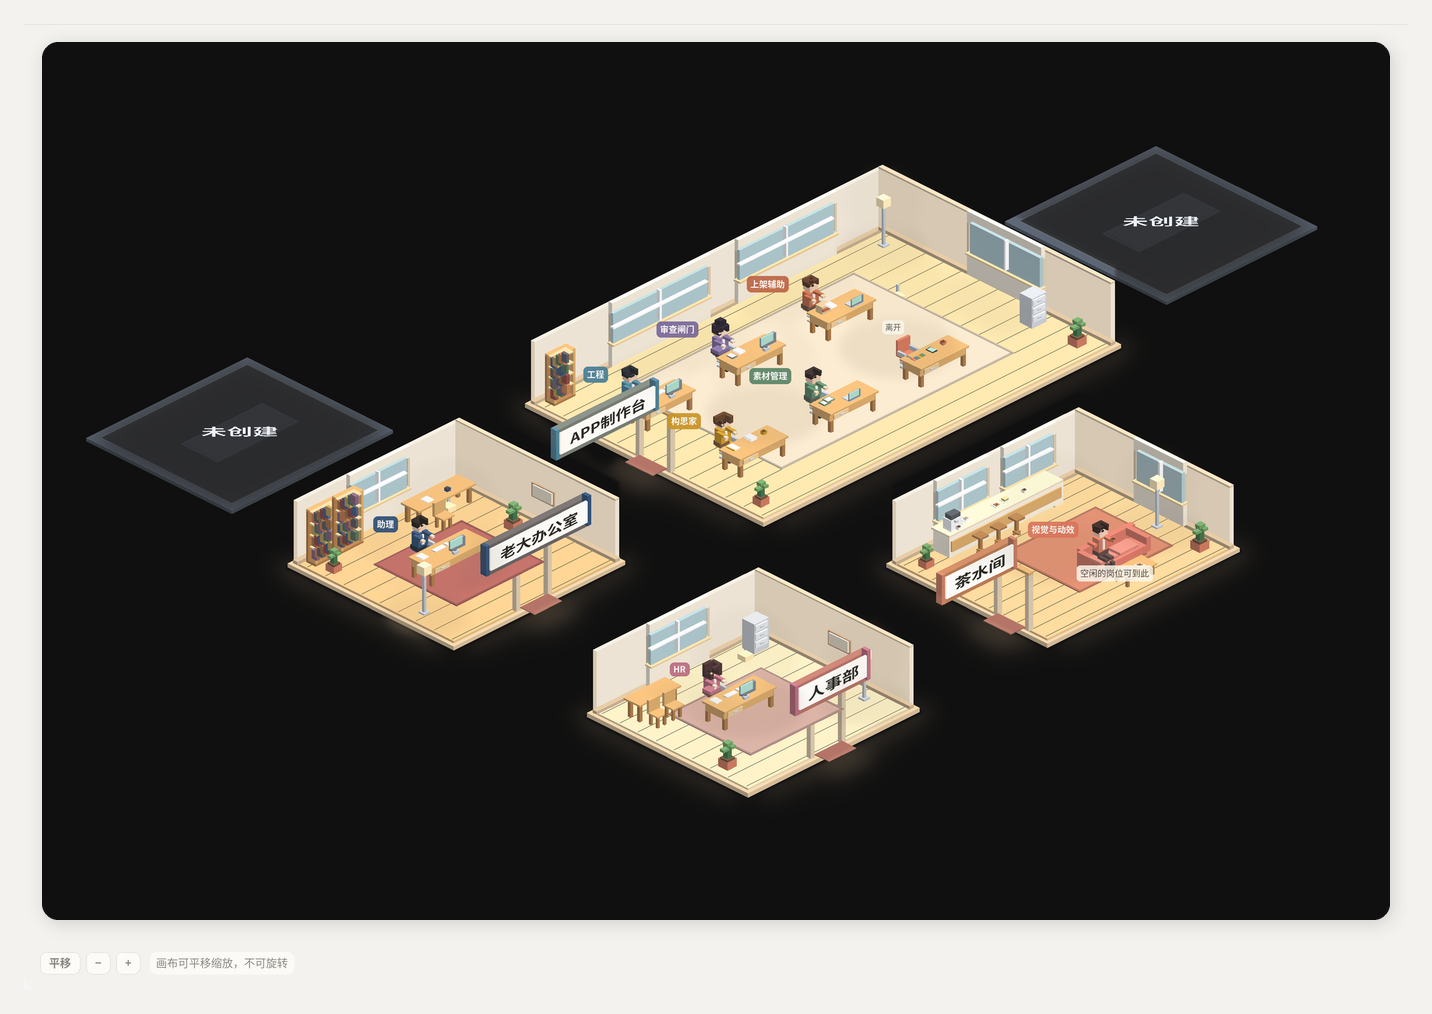
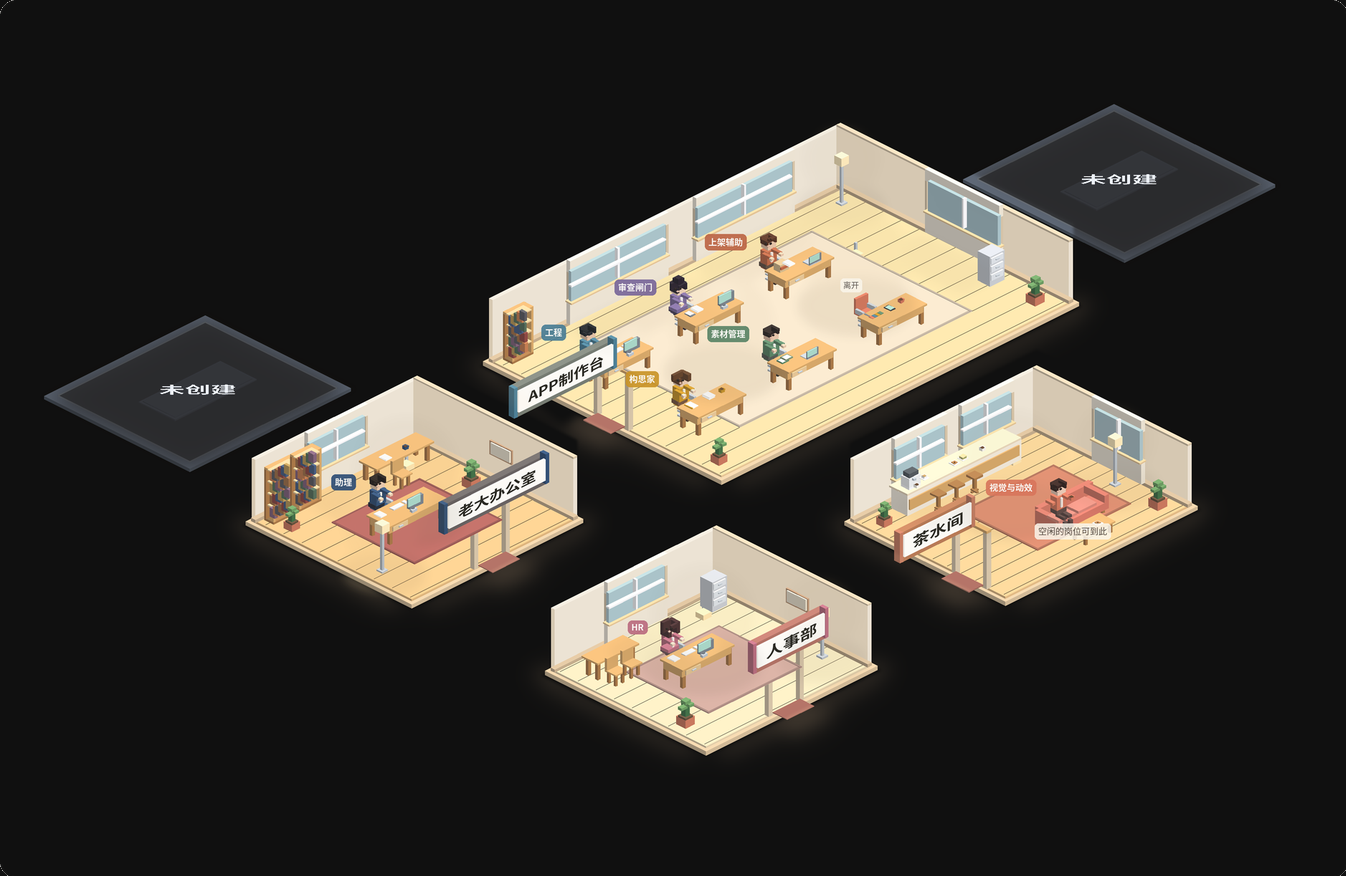
fix: crop scene viewport art and align assistant hotspot
Crop 01 art to dark bbox 1346×876; fill corner bleed to #101010.
Move assistant hit to boss office (~298,432). Correct 工程 presence.
Add e2e guard for hotspot scene coordinates.

diff --git a/src/scene-canvas.ts b/src/scene-canvas.ts
@@ -1,8 +1,7 @@
 import { App, Group, Image, Rect } from 'leafer-ui'
 import { RenderEvent } from '@leafer/core'
+import { ASSISTANT_HOTSPOT, SCENE_H, SCENE_W } from './scene-constants'
 
-const SCENE_W = 1432
-const SCENE_H = 1014
 const SCENE_URL = `${import.meta.env.BASE_URL}assets/scene/ambient-07.png`
 
 export interface SceneCanvas {
@@ -11,6 +10,7 @@ export interface SceneCanvas {
   resetView: () => void
   getSceneRotation: () => number
   getAssistantScreenCenter: () => { x: number; y: number } | null
+  getHotspotSceneCenter: () => { x: number; y: number }
 }
 
 export function createSceneCanvas(
@@ -47,10 +47,10 @@ export function createSceneCanvas(
   })
 
   const assistantHit = new Rect({
-    x: 52,
-    y: 640,
-    width: 200,
-    height: 160,
+    x: ASSISTANT_HOTSPOT.x,
+    y: ASSISTANT_HOTSPOT.y,
+    width: ASSISTANT_HOTSPOT.width,
+    height: ASSISTANT_HOTSPOT.height,
     fill: 'rgba(0,0,0,0.01)',
     cursor: 'pointer',
     hittable: true,
@@ -120,11 +120,17 @@ export function createSceneCanvas(
     return { x, y }
   }
 
+  const getHotspotSceneCenter = () => ({
+    x: ASSISTANT_HOTSPOT.x + ASSISTANT_HOTSPOT.width / 2,
+    y: ASSISTANT_HOTSPOT.y + ASSISTANT_HOTSPOT.height / 2,
+  })
+
   return {
     app,
     zoomBy,
     resetView: fit,
     getSceneRotation: () => content.rotation ?? 0,
     getAssistantScreenCenter,
+    getHotspotSceneCenter,
   }
 }

diff --git a/src/mock-data.ts b/src/mock-data.ts
@@ -26,20 +26,14 @@ export const presence: BotPresence[] = [
   { role: '助理', location: '老大办公室', posture: '在岗工作' },
   { role: '构思家', location: 'APP制作台', posture: '在岗工作' },
   { role: '素材管理', location: 'APP制作台', posture: '在岗工作' },
-  { role: '工程', location: 'APP制作台', posture: '离开' },
+  { role: '工程', location: 'APP制作台', posture: '在岗工作' },
   { role: '审查闸门', location: 'APP制作台', posture: '在岗工作' },
   { role: '上架辅助', location: 'APP制作台', posture: '在岗工作' },
   { role: '视觉与动效', location: '茶水间', posture: '茶水间休息' },
   { role: 'HR', location: '人事部', posture: '在岗工作' },
 ]
 
-/** Hit area on `ambient-07.png` (1432×1014) — boss office assistant. */
-export const assistantHotspot = {
-  x: 52,
-  y: 640,
-  width: 200,
-  height: 160,
-}
+export { ASSISTANT_HOTSPOT as assistantHotspot } from './scene-constants'
 
 export const chatMessages = [
   {

diff --git a/e2e/dashboard.spec.ts b/e2e/dashboard.spec.ts
@@ -54,6 +54,20 @@ test.describe('可视化 Bot 协作管理后台 — 第一期烟雾', () => {
     expect(rotation).toBe(0)
   })
 
+  test('助理热区在裁切场景内覆盖助理，不在左下空白黑地', async ({ page }) => {
+    await page.goto('/')
+    await page.getByTestId('assistant-scene-hit').waitFor({ state: 'visible', timeout: 10_000 })
+    const center = await page.evaluate(() =>
+      (window as unknown as { __assistantHotspotInScene?: () => { x: number; y: number } }).__assistantHotspotInScene?.(),
+    )
+    expect(center).toBeDefined()
+    expect(center!.x).toBeGreaterThan(280)
+    expect(center!.x).toBeLessThan(520)
+    expect(center!.y).toBeGreaterThan(400)
+    expect(center!.y).toBeLessThan(620)
+    expect(center!.y).toBeLessThan(876 * 0.72)
+  })
+
   test('点击助理热区聚焦右侧对话，不另开窗口', async ({ page }) => {
     await page.goto('/')
     await page.getByTestId('scene-viewport').locator('canvas').first().waitFor({ timeout: 15_000 })

diff --git a/src/main.ts b/src/main.ts
@@ -110,6 +110,9 @@ shell.querySelector('#btn-zoom-reset')?.addEventListener('click', () => scene.re
 ;(window as unknown as {
   __sceneRotation?: () => number
   __getAssistantScreenCenter?: () => { x: number; y: number } | null
+  __assistantHotspotInScene?: () => { x: number; y: number }
 }).__sceneRotation = () => scene.getSceneRotation()
 ;(window as unknown as { __getAssistantScreenCenter?: () => { x: number; y: number } | null }).__getAssistantScreenCenter =
   () => scene.getAssistantScreenCenter()
+;(window as unknown as { __assistantHotspotInScene?: () => { x: number; y: number } }).__assistantHotspotInScene =
+  () => scene.getHotspotSceneCenter()

diff --git a/src/scene-constants.ts b/src/scene-constants.ts
@@ -1,0 +1,14 @@
+/** Cropped from 01-左侧场景氛围.png: dark viewport bbox (42,42)–(1388,918). */
+
+export const SCENE_CROP = { left: 42, top: 42, width: 1346, height: 876 }
+
+export const SCENE_W = SCENE_CROP.width
+export const SCENE_H = SCENE_CROP.height
+
+/** Boss-office 助理 — uncropped ~330–530 × 470–620 → scene-local after crop. */
+export const ASSISTANT_HOTSPOT = {
+  x: 298,
+  y: 432,
+  width: 188,
+  height: 172,
+}

diff --git a/docs/ENGINEERING.md b/docs/ENGINEERING.md
@@ -3,7 +3,7 @@
 ## 实现概要
 
 - **外壳：** CSS 实现纸白色板（`#FEFEFE` / `#F4F2EE`），窗口圆角 18px，右侧 480px 圆角对话卡片，内缩 18px。
-- **场景：** `public/assets/scene/ambient-07.png`（界面稿 `01-左侧场景氛围.png`）置于 Leafer `App` 中，视口底 `#101010`、圆角 16px；工具条在黑色容器下方的纸白壳上。
+- **场景：** `ambient-07.png` 为 `01-左侧场景氛围.png` 裁切视口内景（`42,42`–`1388,918`，1346×876，角部填 `#101010`），不含稿内纸白条/烘焙工具条；外壳与平移缩放条仅 CSS/HTML。置于 Leafer，视口 `#101010`、16px 圆角。
 - **交互：** 平移（拖拽画布）、缩放（滚轮与 ± 按钮）；`wheel.rotateSpeed = 0` 禁止旋转。点击助理热区聚焦右侧输入框，无弹窗。
 - **数据：** `src/mock-data.ts` 本地模拟，无真实 Bot/聊天 API。
 
@@ -14,8 +14,8 @@
 | 纸白外壳与字体 | Noto Serif SC 标题 + Noto Sans SC 正文（OFL，打包入 dist） |
 | 近黑圆角视口 | `#101010` + 16px 圆角 + 内缩边距 |
 | 环境光 / 名牌 | 使用改稿 07 预渲场景图，不在代码中加灯牌发光 |
-| 默认状态 | 四间开灯 + 两块「未创建」空地；视觉与动效在茶水间，工程工位离开 |
-| 点击助理 | 透明 `Rect` 热区 + 对话栏 `chat-card--focused` |
+| 默认状态 | 四间开灯 + 两块「未创建」空地；视觉与动效在茶水间休息，其 APP 工位桌北空椅「离开」；工程在 APP制作台在岗 |
+| 点击助理 | 热区 scene-local `298,432` 188×172（老大办公室助理），DOM 按钮随画布同步 |
 
 ## 已知设计缺口（本轮不修）
 

diff --git a/docs/可视化Bot协作管理后台-工程报告.md b/docs/可视化Bot协作管理后台-工程报告.md
@@ -16,7 +16,7 @@
 ## 本轮实现
 
 1. Vite + TypeScript 单页应用，纸白外壳与右侧 480px 对话圆角卡片（CSS，对齐 DESIGN.md §8 / 改稿 07）。
-2. 左侧近黑圆角视口（`#101010`，16px），内嵌 LeaferJS：`01-左侧场景氛围.png` 作为场景图（`public/assets/scene/ambient-07.png`），支持拖拽平移、滚轮/按钮缩放；`rotateSpeed: 0` 禁止旋转。
+2. 左侧近黑圆角视口（`#101010`，16px），内嵌 LeaferJS：场景图为 `01` **裁切视口内景**（`ambient-07.png`，1346×876，不含稿内工具条/纸白边），支持拖拽平移、滚轮/按钮缩放；`rotateSpeed: 0` 禁止旋转；助理热区对齐老大办公室（非左下黑地）。
 3. 助理点击热区（透明 Rect）聚焦右侧输入与卡片强调，无新窗口。
 4. `src/mock-data.ts` 本地模拟状态与对话（设计稿 03 同等文案）。
 5. 设计文档与界面参考图、`docs/licenses/` 许可摘录、`LICENSE`（MIT）、`THIRD_PARTY_NOTICES`。

diff --git a/README.md b/README.md
@@ -33,7 +33,7 @@ npm run test:e2e
 
 - `docs/DESIGN.md` — 设计规格
 - `docs/动效说明.md`、`docs/设计报告.md`
-- `public/assets/scene/ambient-07.png` — 左侧场景（改稿 07）
+- `public/assets/scene/ambient-07.png` — 左侧场景（由 `01` 裁切视口 1346×876，无重复工具条）
 - `public/assets/interface/` — 界面对齐参考图
 - `LICENSE`（MIT）、`THIRD_PARTY_NOTICES`
 
